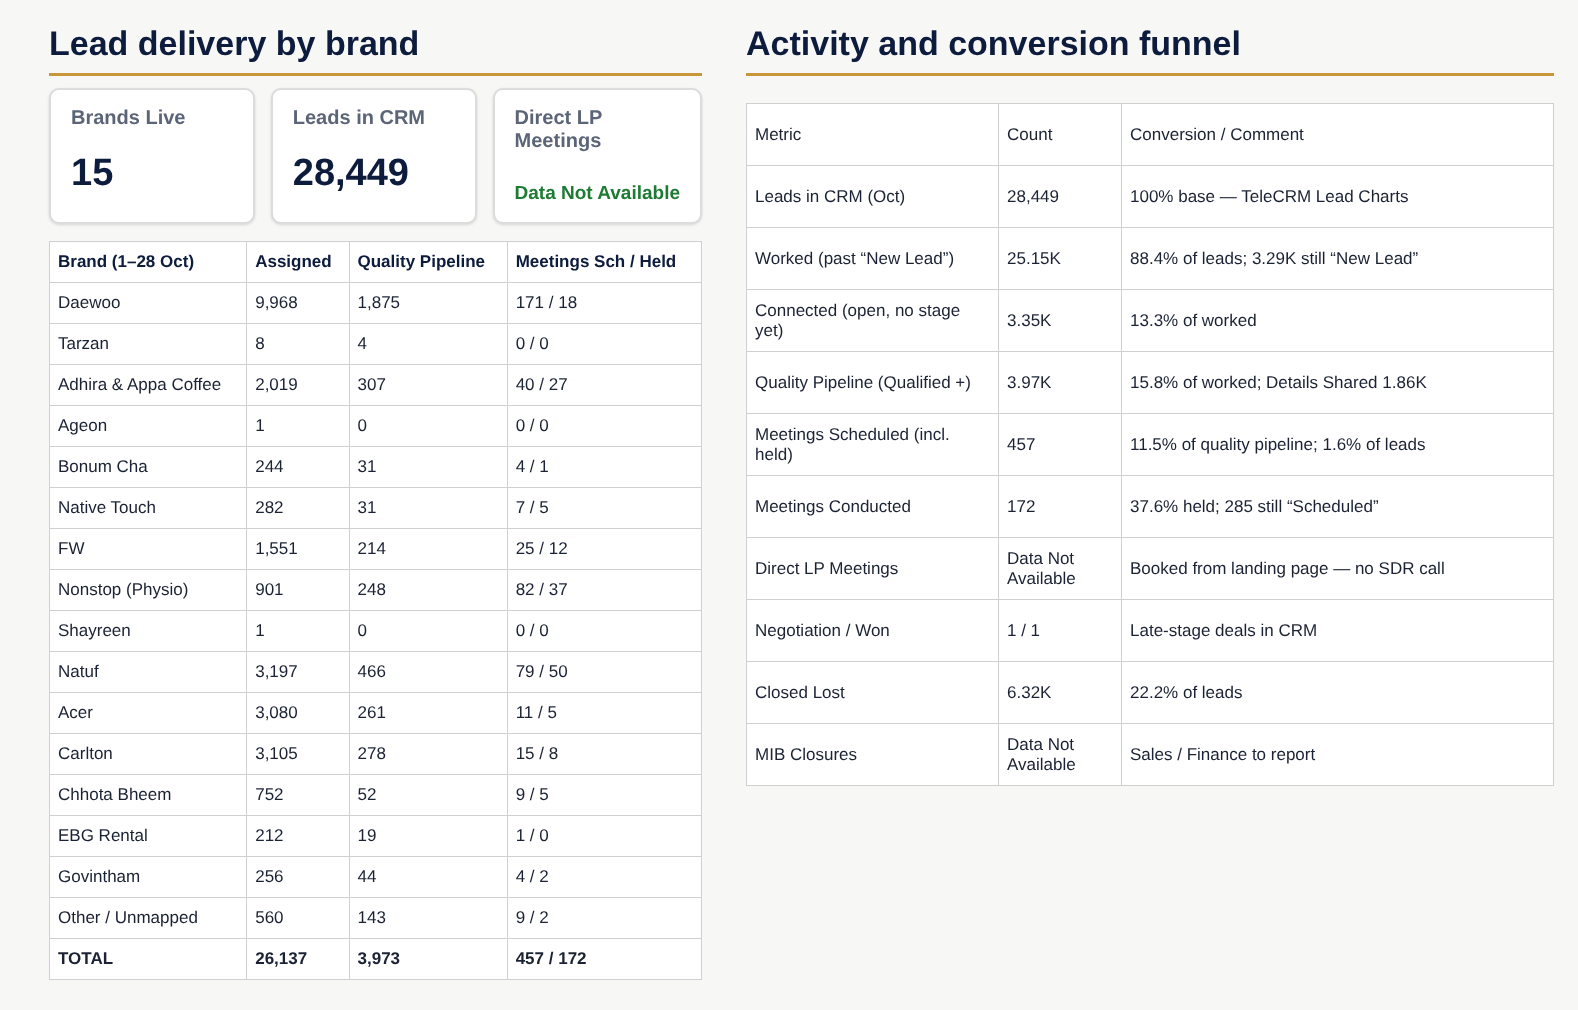
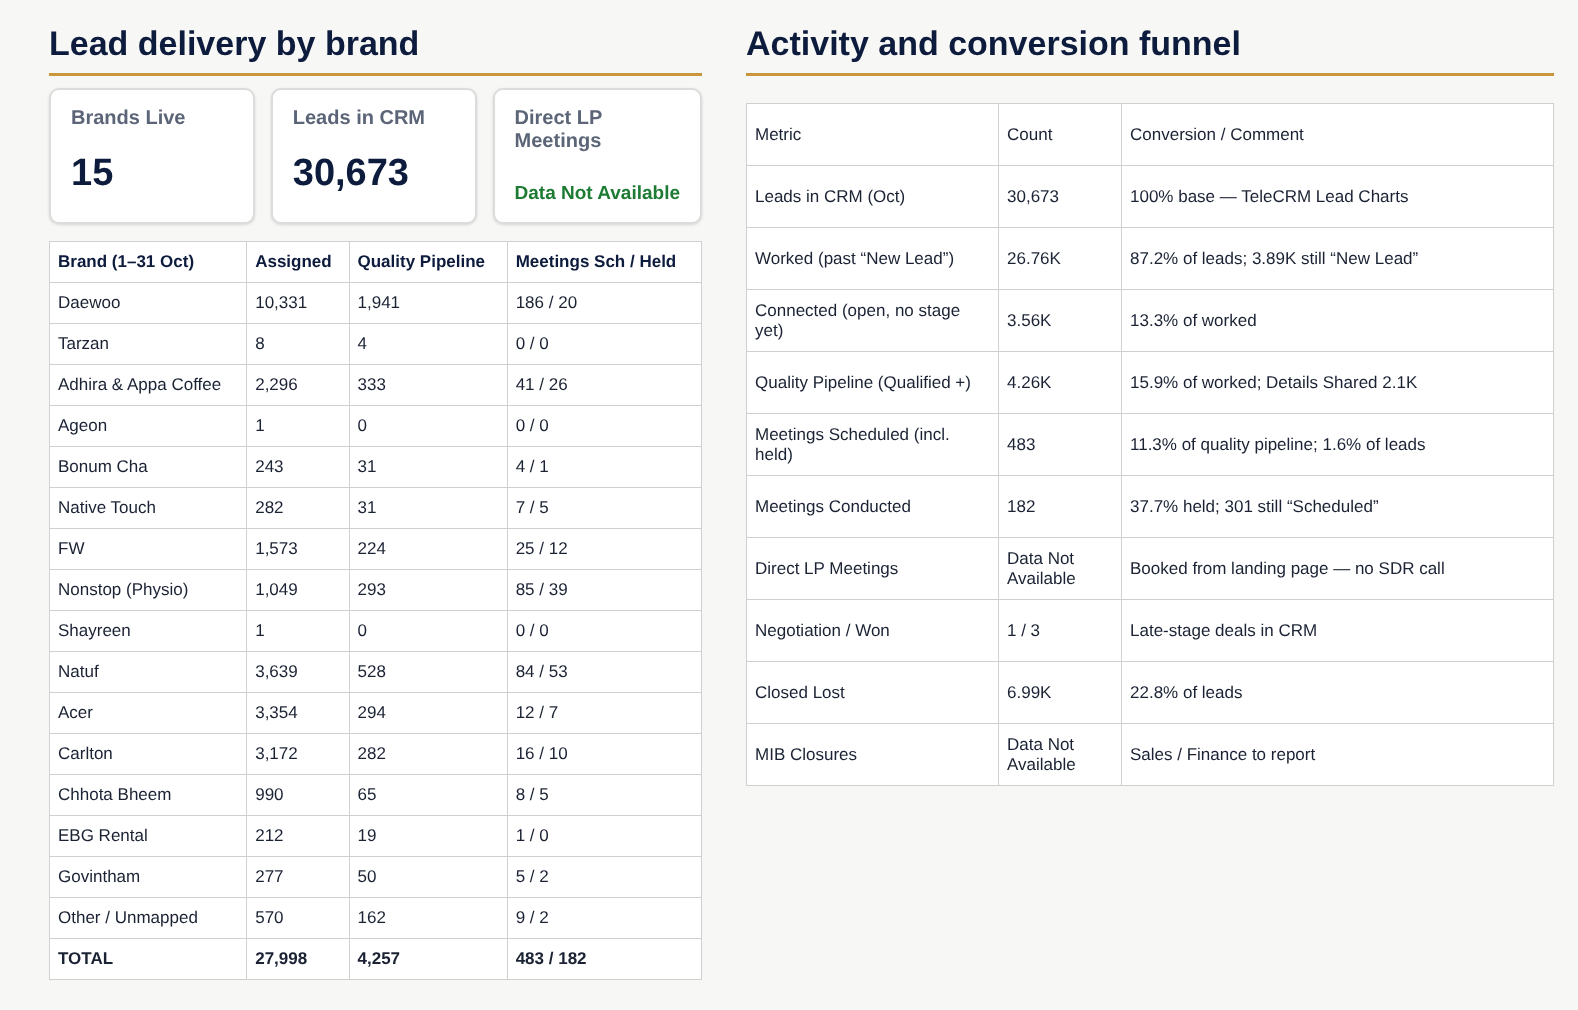
October 2026 report (1-31 Oct); FW rule also matches 'FW ' and 'Franchise World'
Claude-Session: https://claude.ai/code/session_014mYQKy48Wu36t4nGVjPjP9

diff --git a/outputs/2026-10/Monthly_Lead_Report_Oct2026.html b/outputs/2026-10/Monthly_Lead_Report_Oct2026.html
@@ -16,9 +16,9 @@ tr.tot td{font-weight:700}
 </style></head><body><div class="slide">
 <div class="left"><h2>Lead delivery by brand</h2>
 <div class="tiles"><div class="tile"><div class="l">Brands Live</div><div class="v">15</div></div>
-<div class="tile"><div class="l">Leads in CRM</div><div class="v">28,449</div></div>
+<div class="tile"><div class="l">Leads in CRM</div><div class="v">30,673</div></div>
 <div class="tile"><div class="l">Direct LP Meetings</div><div class="v g sm">Data Not Available</div></div></div>
-<table><tr><td>Brand (1–28 Oct)</td><td>Assigned</td><td>Quality Pipeline</td><td>Meetings Sch / Held</td></tr><tr><td>Daewoo</td><td>9,968</td><td>1,875</td><td>171 / 18</td></tr><tr><td>Tarzan</td><td>8</td><td>4</td><td>0 / 0</td></tr><tr><td>Adhira &amp; Appa Coffee</td><td>2,019</td><td>307</td><td>40 / 27</td></tr><tr><td>Ageon</td><td>1</td><td>0</td><td>0 / 0</td></tr><tr><td>Bonum Cha</td><td>244</td><td>31</td><td>4 / 1</td></tr><tr><td>Native Touch</td><td>282</td><td>31</td><td>7 / 5</td></tr><tr><td>FW</td><td>1,551</td><td>214</td><td>25 / 12</td></tr><tr><td>Nonstop (Physio)</td><td>901</td><td>248</td><td>82 / 37</td></tr><tr><td>Shayreen</td><td>1</td><td>0</td><td>0 / 0</td></tr><tr><td>Natuf</td><td>3,197</td><td>466</td><td>79 / 50</td></tr><tr><td>Acer</td><td>3,080</td><td>261</td><td>11 / 5</td></tr><tr><td>Carlton</td><td>3,105</td><td>278</td><td>15 / 8</td></tr><tr><td>Chhota Bheem</td><td>752</td><td>52</td><td>9 / 5</td></tr><tr><td>EBG Rental</td><td>212</td><td>19</td><td>1 / 0</td></tr><tr><td>Govintham</td><td>256</td><td>44</td><td>4 / 2</td></tr><tr><td>Other / Unmapped</td><td>560</td><td>143</td><td>9 / 2</td></tr><tr class='tot'><td>TOTAL</td><td>26,137</td><td>3,973</td><td>457 / 172</td></tr></table></div>
+<table><tr><td>Brand (1–31 Oct)</td><td>Assigned</td><td>Quality Pipeline</td><td>Meetings Sch / Held</td></tr><tr><td>Daewoo</td><td>10,331</td><td>1,941</td><td>186 / 20</td></tr><tr><td>Tarzan</td><td>8</td><td>4</td><td>0 / 0</td></tr><tr><td>Adhira &amp; Appa Coffee</td><td>2,296</td><td>333</td><td>41 / 26</td></tr><tr><td>Ageon</td><td>1</td><td>0</td><td>0 / 0</td></tr><tr><td>Bonum Cha</td><td>243</td><td>31</td><td>4 / 1</td></tr><tr><td>Native Touch</td><td>282</td><td>31</td><td>7 / 5</td></tr><tr><td>FW</td><td>1,573</td><td>224</td><td>25 / 12</td></tr><tr><td>Nonstop (Physio)</td><td>1,049</td><td>293</td><td>85 / 39</td></tr><tr><td>Shayreen</td><td>1</td><td>0</td><td>0 / 0</td></tr><tr><td>Natuf</td><td>3,639</td><td>528</td><td>84 / 53</td></tr><tr><td>Acer</td><td>3,354</td><td>294</td><td>12 / 7</td></tr><tr><td>Carlton</td><td>3,172</td><td>282</td><td>16 / 10</td></tr><tr><td>Chhota Bheem</td><td>990</td><td>65</td><td>8 / 5</td></tr><tr><td>EBG Rental</td><td>212</td><td>19</td><td>1 / 0</td></tr><tr><td>Govintham</td><td>277</td><td>50</td><td>5 / 2</td></tr><tr><td>Other / Unmapped</td><td>570</td><td>162</td><td>9 / 2</td></tr><tr class='tot'><td>TOTAL</td><td>27,998</td><td>4,257</td><td>483 / 182</td></tr></table></div>
 <div class="right"><h2>Activity and conversion funnel</h2>
-<table><tr><td>Metric</td><td>Count</td><td>Conversion / Comment</td></tr><tr><td>Leads in CRM (Oct)</td><td>28,449</td><td>100% base — TeleCRM Lead Charts</td></tr><tr><td>Worked (past “New Lead”)</td><td>25.15K</td><td>88.4% of leads; 3.29K still “New Lead”</td></tr><tr><td>Connected (open, no stage yet)</td><td>3.35K</td><td>13.3% of worked</td></tr><tr><td>Quality Pipeline (Qualified +)</td><td>3.97K</td><td>15.8% of worked; Details Shared 1.86K</td></tr><tr><td>Meetings Scheduled (incl. held)</td><td>457</td><td>11.5% of quality pipeline; 1.6% of leads</td></tr><tr><td>Meetings Conducted</td><td>172</td><td>37.6% held; 285 still “Scheduled”</td></tr><tr><td>Direct LP Meetings</td><td>Data Not Available</td><td>Booked from landing page — no SDR call</td></tr><tr><td>Negotiation / Won</td><td>1 / 1</td><td>Late-stage deals in CRM</td></tr><tr><td>Closed Lost</td><td>6.32K</td><td>22.2% of leads</td></tr><tr><td>MIB Closures</td><td>Data Not Available</td><td>Sales / Finance to report</td></tr></table></div>
+<table><tr><td>Metric</td><td>Count</td><td>Conversion / Comment</td></tr><tr><td>Leads in CRM (Oct)</td><td>30,673</td><td>100% base — TeleCRM Lead Charts</td></tr><tr><td>Worked (past “New Lead”)</td><td>26.76K</td><td>87.2% of leads; 3.89K still “New Lead”</td></tr><tr><td>Connected (open, no stage yet)</td><td>3.56K</td><td>13.3% of worked</td></tr><tr><td>Quality Pipeline (Qualified +)</td><td>4.26K</td><td>15.9% of worked; Details Shared 2.1K</td></tr><tr><td>Meetings Scheduled (incl. held)</td><td>483</td><td>11.3% of quality pipeline; 1.6% of leads</td></tr><tr><td>Meetings Conducted</td><td>182</td><td>37.7% held; 301 still “Scheduled”</td></tr><tr><td>Direct LP Meetings</td><td>Data Not Available</td><td>Booked from landing page — no SDR call</td></tr><tr><td>Negotiation / Won</td><td>1 / 3</td><td>Late-stage deals in CRM</td></tr><tr><td>Closed Lost</td><td>6.99K</td><td>22.8% of leads</td></tr><tr><td>MIB Closures</td><td>Data Not Available</td><td>Sales / Finance to report</td></tr></table></div>
 </div></body></html>
